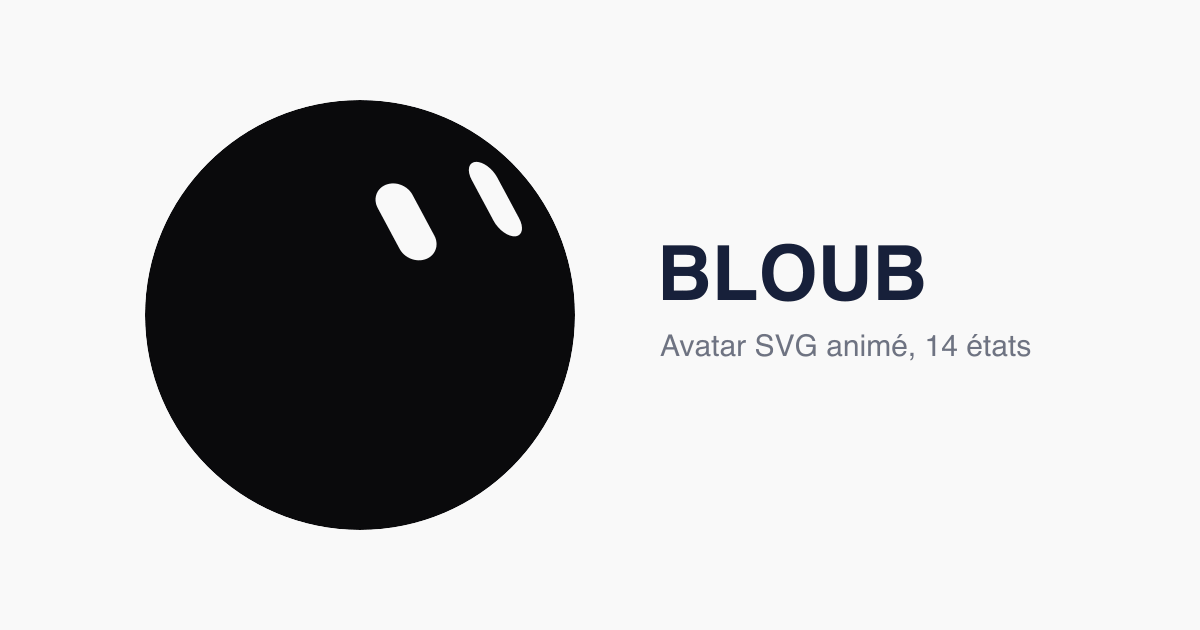
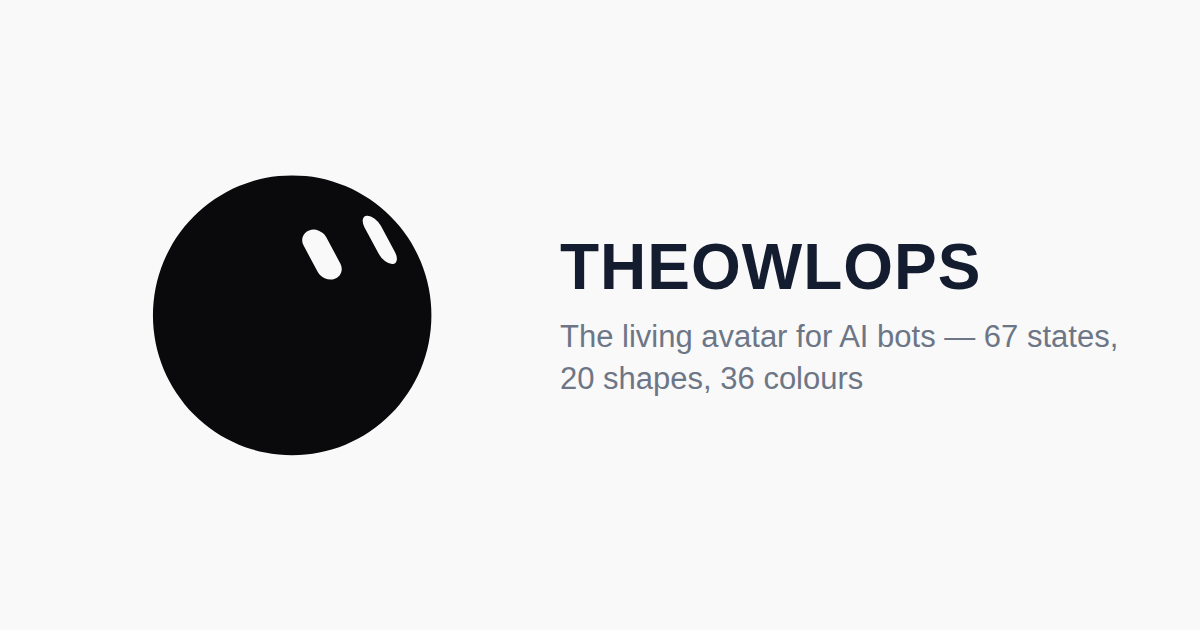
rebrand: second sweep — zero 'bloub' left anywhere
- og.png regenerated: the old share image had BLOUB baked into its
  pixels (plus a stale '14 états' tagline); the new one renders the
  actual engine avatar beside THEOWLOPS and the current tagline.
- The last attribution mentions are reworded: NOTICE.md, the LICENSE
  derivation note and the README Credits now credit Jérémy Perret by
  name without the old project name; his MIT copyright block is kept
  verbatim, as the licence requires.
Verified: grep -ri bloub over the whole tree (content + filenames)
returns nothing; 219/219 tests pass; build clean.

Changed region(s): [[0.1233, 0.1508, 0.925, 0.8444]]

diff --git a/NOTICE.md b/NOTICE.md
@@ -1,11 +1,10 @@
 # Third-party notices
 
-## bloub — Jérémy Perret
+## Original engine — Jérémy Perret
 
 The avatar engine at the heart of `@theowlops/rogue-avatar-core`
-(`packages/avatar-core/src/bot/`) is derived from
-[bloub](https://github.com/jeremy-prt/bloub) by **Jérémy Perret**, an SVG
-recreation of the x.ai bot avatar, used and extended under the MIT license
-(see `LICENSE`). The Rogue expansion pack (+100 catalogue entries: 52 states,
+(`packages/avatar-core/src/bot/`) is derived from an SVG avatar engine by
+**Jérémy Perret**, a recreation of the x.ai bot avatar, used and extended
+under the MIT license (see `LICENSE`). The Rogue expansion pack (+100 catalogue entries: 52 states,
 12 shapes, 12 expressions, 24 colours) and the SDK layer (renderer, player,
 chat phases, React/Vue wrappers) were added by TheOwlOps.

diff --git a/README.md b/README.md
@@ -64,6 +64,6 @@ These avatars are the faces of **Rogue**, an autonomous multi-agent orchestratio
 
 ## Credits
 
-Engine derived from [bloub](https://github.com/jeremy-prt/bloub) by **Jérémy Perret** (MIT) — see [NOTICE.md](NOTICE.md). The 100-entry expansion pack, SDK, chat demo and studio features were built by TheOwlOps.
+Engine derived from an SVG avatar engine by **Jérémy Perret** (MIT) — see [NOTICE.md](NOTICE.md). The 100-entry expansion pack, SDK, chat demo and studio features were built by TheOwlOps.
 
 [MIT](LICENSE) © TheOwlOps and contributors.
